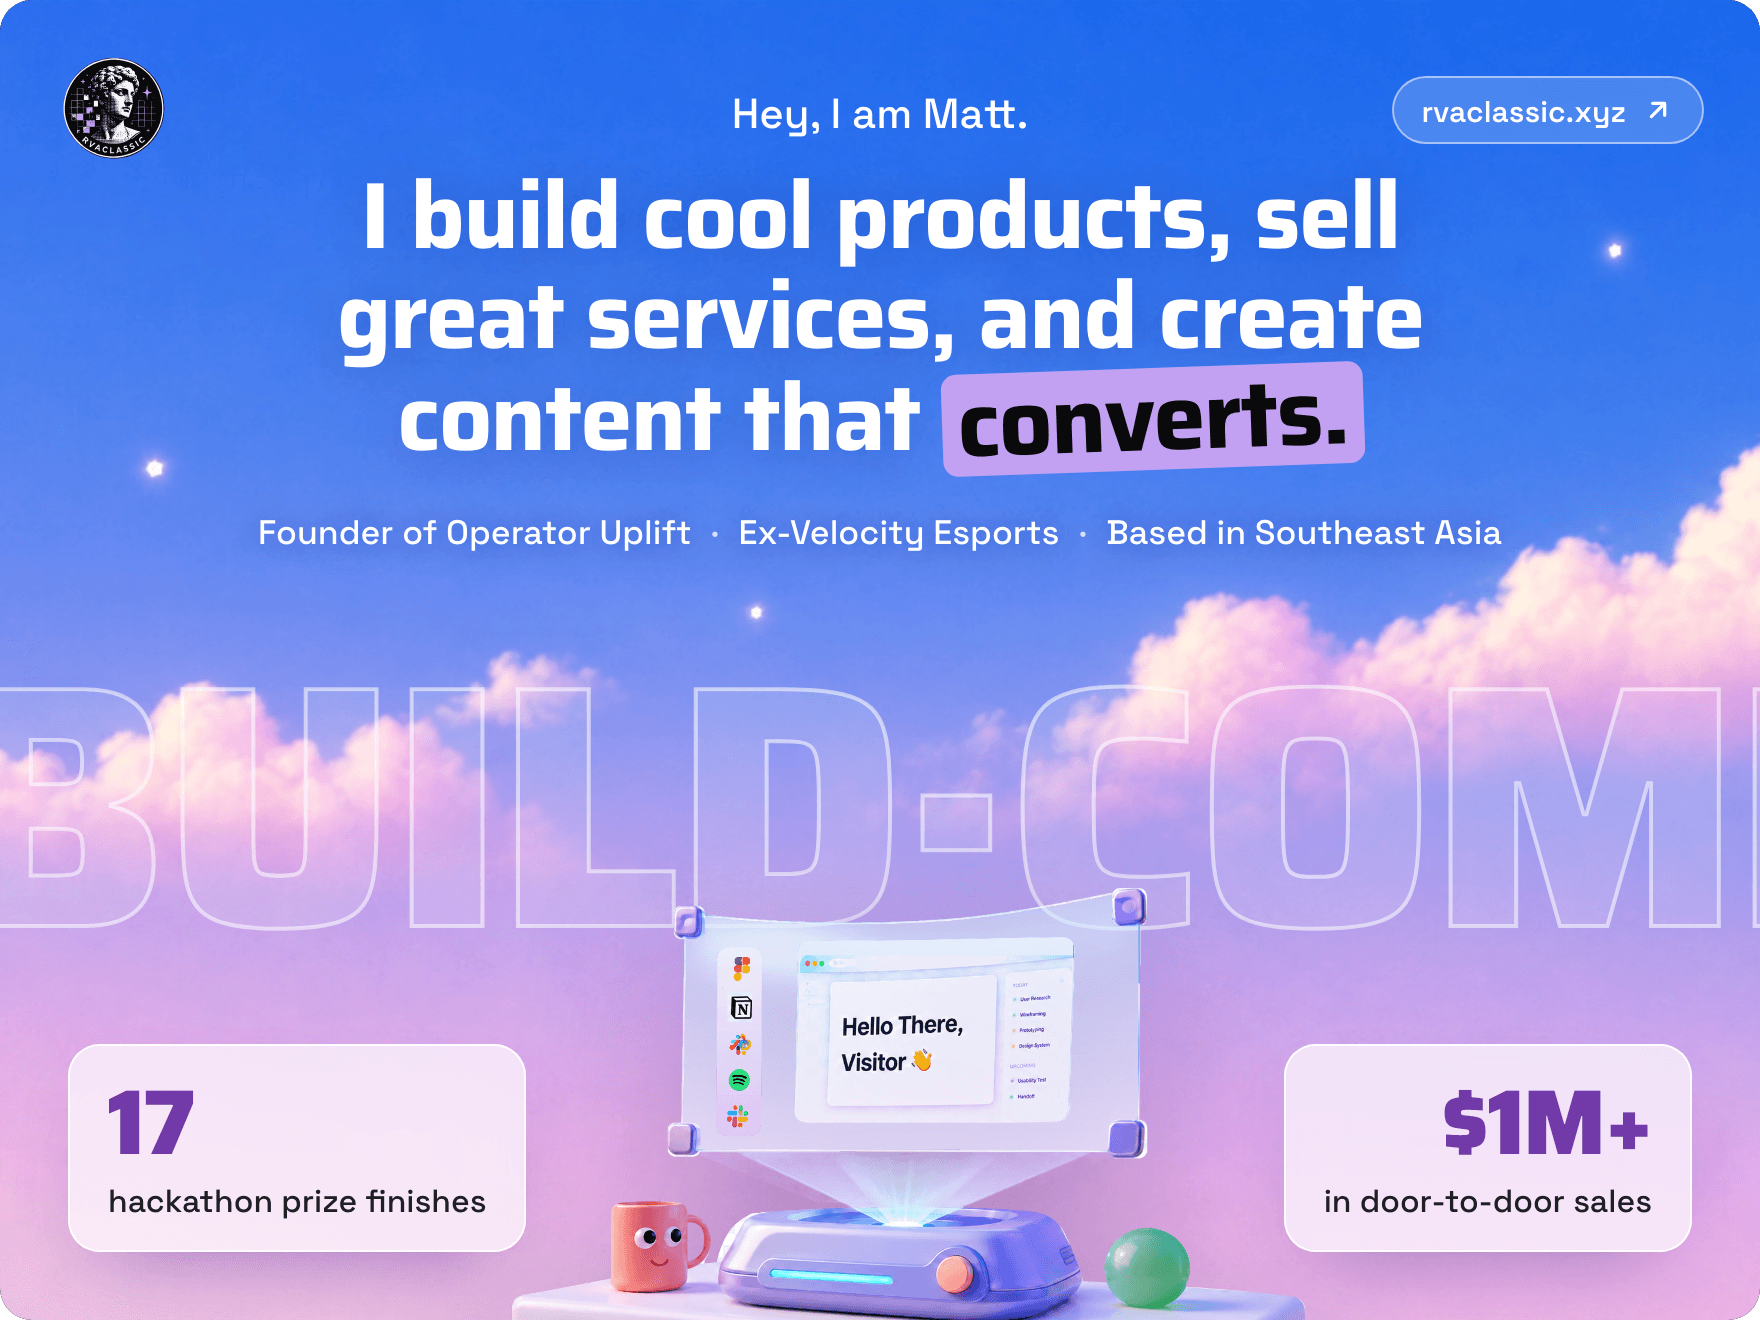
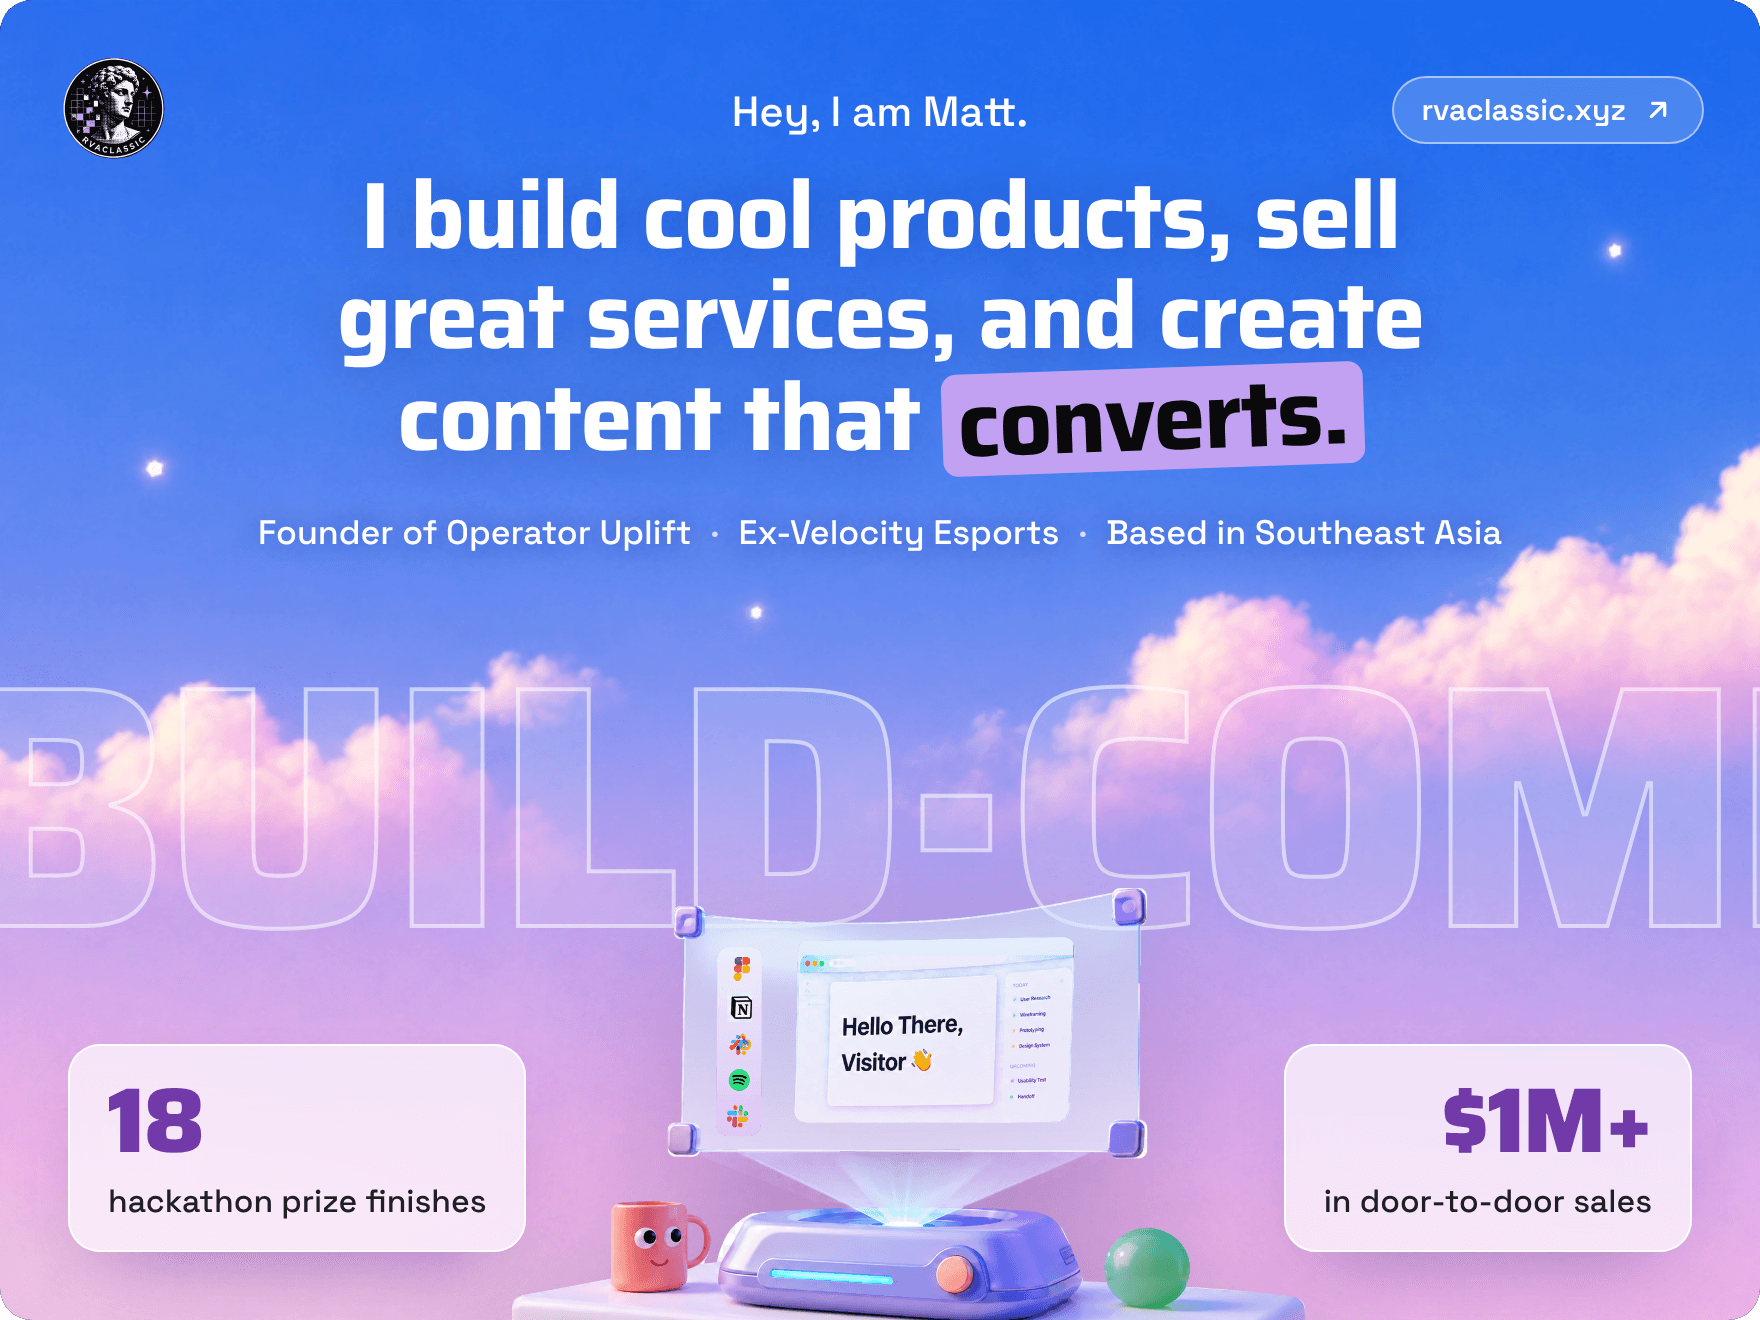
Add the NEAR Intents Pitch Hackathon win: 18 prize finishes
- Wins card: count 18, a Winner row for the NEAR Intents Pitch Hackathon
  (San Francisco), and an updated summary line.
- Hero card: 18 hackathon prize finishes.
- OmniAI is now OmniDimension (Voice AI Hackathon), on the wins card and
  the Velocity AI tile.
- Re-rendered only the three changed cards; README alt text and image
  hashes regenerated, checks pass.

Claude-Session: https://claude.ai/code/session_01TZhsuVXF5k9RXQpSdqYkdV

diff --git a/README.md b/README.md
@@ -1,7 +1,7 @@
 <!-- Generated by src/readme.mjs. Edit src/content.mjs, then run: npm run build -->
 
 <p align="center">
-  <a href="https://rvaclassic.xyz/"><img src="https://raw.githubusercontent.com/operatoruplift/operatoruplift/main/img/00-hero.png?v=250b484442" alt="Matt Sim. Hey, I am Matt. I build cool products, sell great services, and create content that converts. Founder of Operator Uplift, Ex-Velocity Esports, Based in Southeast Asia. 17 hackathon prize finishes, $1M+ in door-to-door sales." width="100%"></a>
+  <a href="https://rvaclassic.xyz/"><img src="https://raw.githubusercontent.com/operatoruplift/operatoruplift/main/img/00-hero.png?v=28ff9bbd44" alt="Matt Sim. Hey, I am Matt. I build cool products, sell great services, and create content that converts. Founder of Operator Uplift, Ex-Velocity Esports, Based in Southeast Asia. 18 hackathon prize finishes, $1M+ in door-to-door sales." width="100%"></a>
 </p>
 
 <p align="center">
@@ -45,7 +45,7 @@
 </p>
 
 <p align="center">
-  <a href="https://omnivoiceai.vercel.app"><img src="https://raw.githubusercontent.com/operatoruplift/operatoruplift/main/img/14-tile-velocity-ai.png?v=23f747b404" alt="Velocity AI. 1st place · OmniAI Voice. Voice-AI speed to lead: it calls, qualifies and routes inbound leads." width="49%"></a>
+  <a href="https://omnivoiceai.vercel.app"><img src="https://raw.githubusercontent.com/operatoruplift/operatoruplift/main/img/14-tile-velocity-ai.png?v=23a4aa9f8a" alt="Velocity AI. 1st place · OmniDimension Voice AI. Voice-AI speed to lead: it calls, qualifies and routes inbound leads." width="49%"></a>
   <a href="https://github.com/operatoruplift/striker-terminal"><img src="https://raw.githubusercontent.com/operatoruplift/operatoruplift/main/img/15-tile-striker-terminal.png?v=fc6d9444e1" alt="Striker Terminal. Hackathon build. A World Cup prediction terminal with programmable orders and collectible prediction receipts." width="49%"></a>
 </p>
 
@@ -58,7 +58,7 @@
 </p>
 
 <p align="center">
-  <a href="https://rvaclassic.xyz/#builder"><img src="https://raw.githubusercontent.com/operatoruplift/operatoruplift/main/img/18-wins.png?v=9596307d83" alt="17 hackathon prize finishes. Three first places, a DFlow win, and a Solana Foundation grant along the way. 1st: Superteam UK × HelpBnk (HelpBnk, $10,000 pool). 1st: MuShanghai Filecoin Hackathon (Filecoin, $1,500 pool). 1st: OmniAI Voice Hackathon (OmniAI, $1,000 pool). Winner: Superteam Thailand × DFlow (DFlow, $1,500 pool). 2nd: Superteam Malaysia Website (Superteam, $3,000 pool). 3rd: Stack Auth Hackathon (Stack Auth, $1,750 pool). Prize: Render Hackathon (Growzilla, $100,000 pool). Prize ×3: Breakpoint London hackathons (Solana Foundation, $3,300 pool each). Pools are event totals, not my payouts. All 17 finishes are listed on rvaclassic.xyz." width="100%"></a>
+  <a href="https://rvaclassic.xyz/#builder"><img src="https://raw.githubusercontent.com/operatoruplift/operatoruplift/main/img/18-wins.png?v=3bccfef6a4" alt="18 hackathon prize finishes. Three first places, wins at DFlow and NEAR Intents, and a Solana Foundation grant along the way. 1st: Superteam UK × HelpBnk (HelpBnk, $10,000 pool). 1st: MuShanghai Filecoin Hackathon (Filecoin, $1,500 pool). 1st: OmniDimension Voice AI Hackathon (OmniDimension, $1,000 pool). Winner: Superteam Thailand × DFlow (DFlow, $1,500 pool). Winner: NEAR Intents Pitch Hackathon (NEAR, San Francisco). 2nd: Superteam Malaysia Website (Superteam, $3,000 pool). 3rd: Stack Auth Hackathon (Stack Auth, $1,750 pool). Prize: Render Hackathon (Growzilla, $100,000 pool). Prize ×3: Breakpoint London hackathons (Solana Foundation, $3,300 pool each). Pools are event totals, not my payouts. All 18 finishes are listed on rvaclassic.xyz." width="100%"></a>
 </p>
 
 <p align="center">
